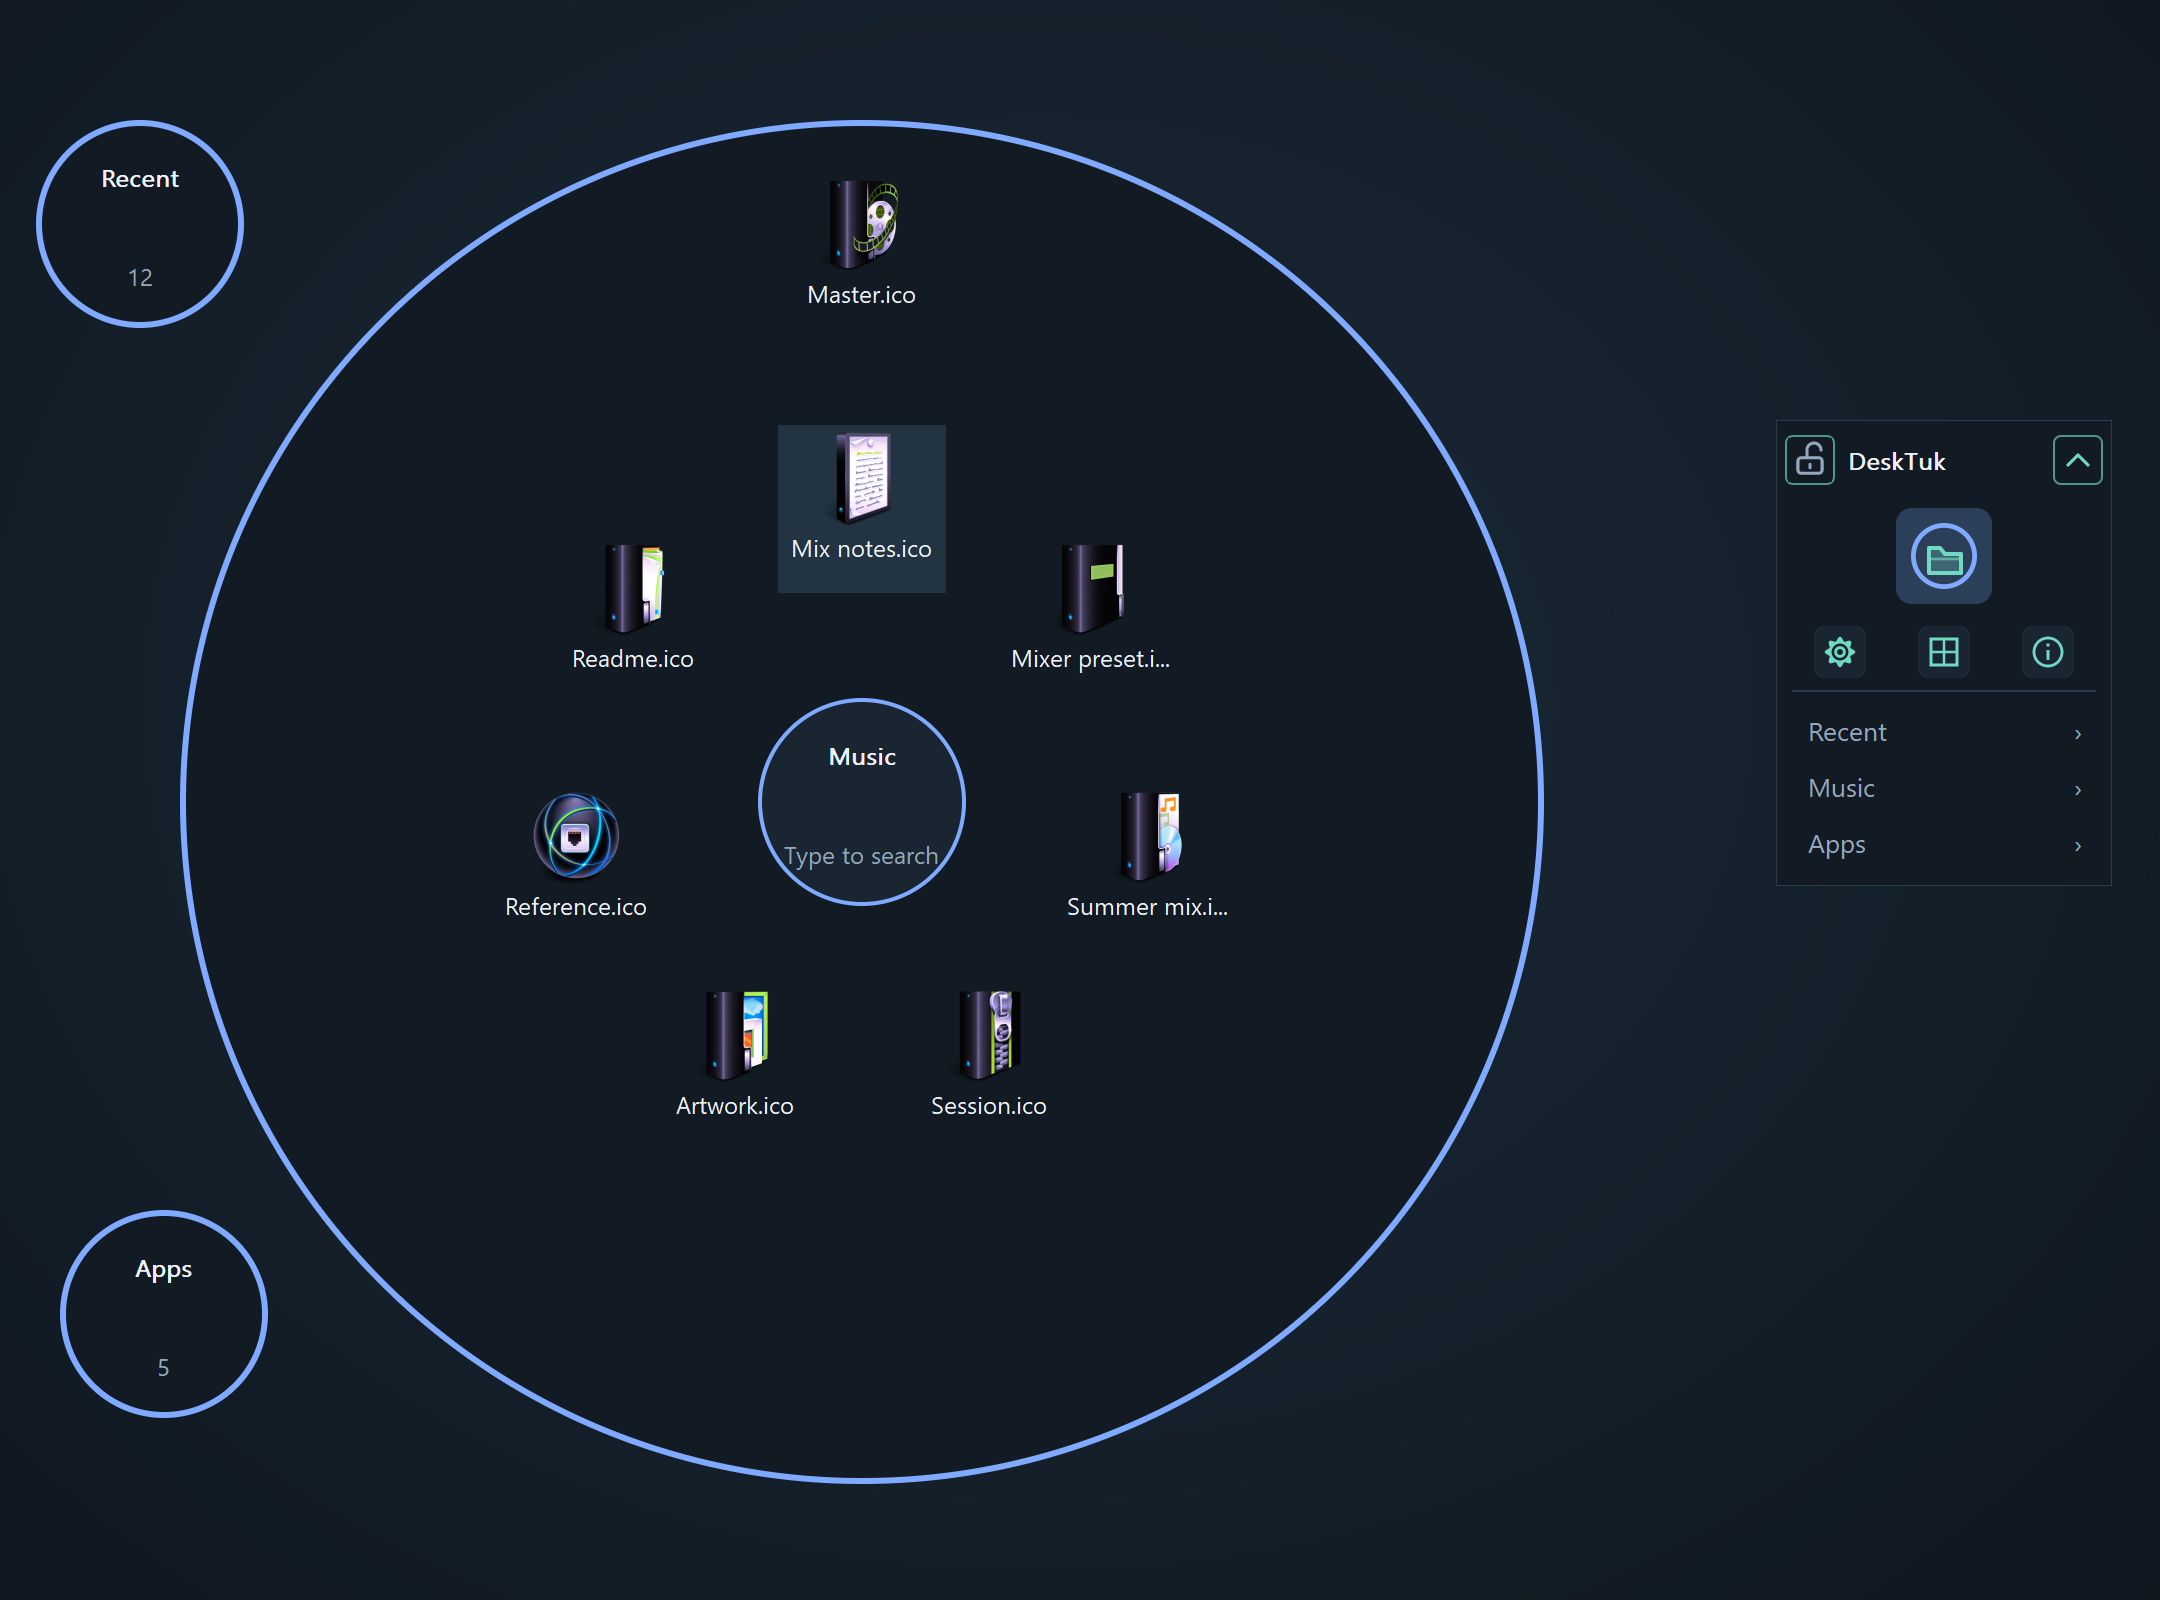
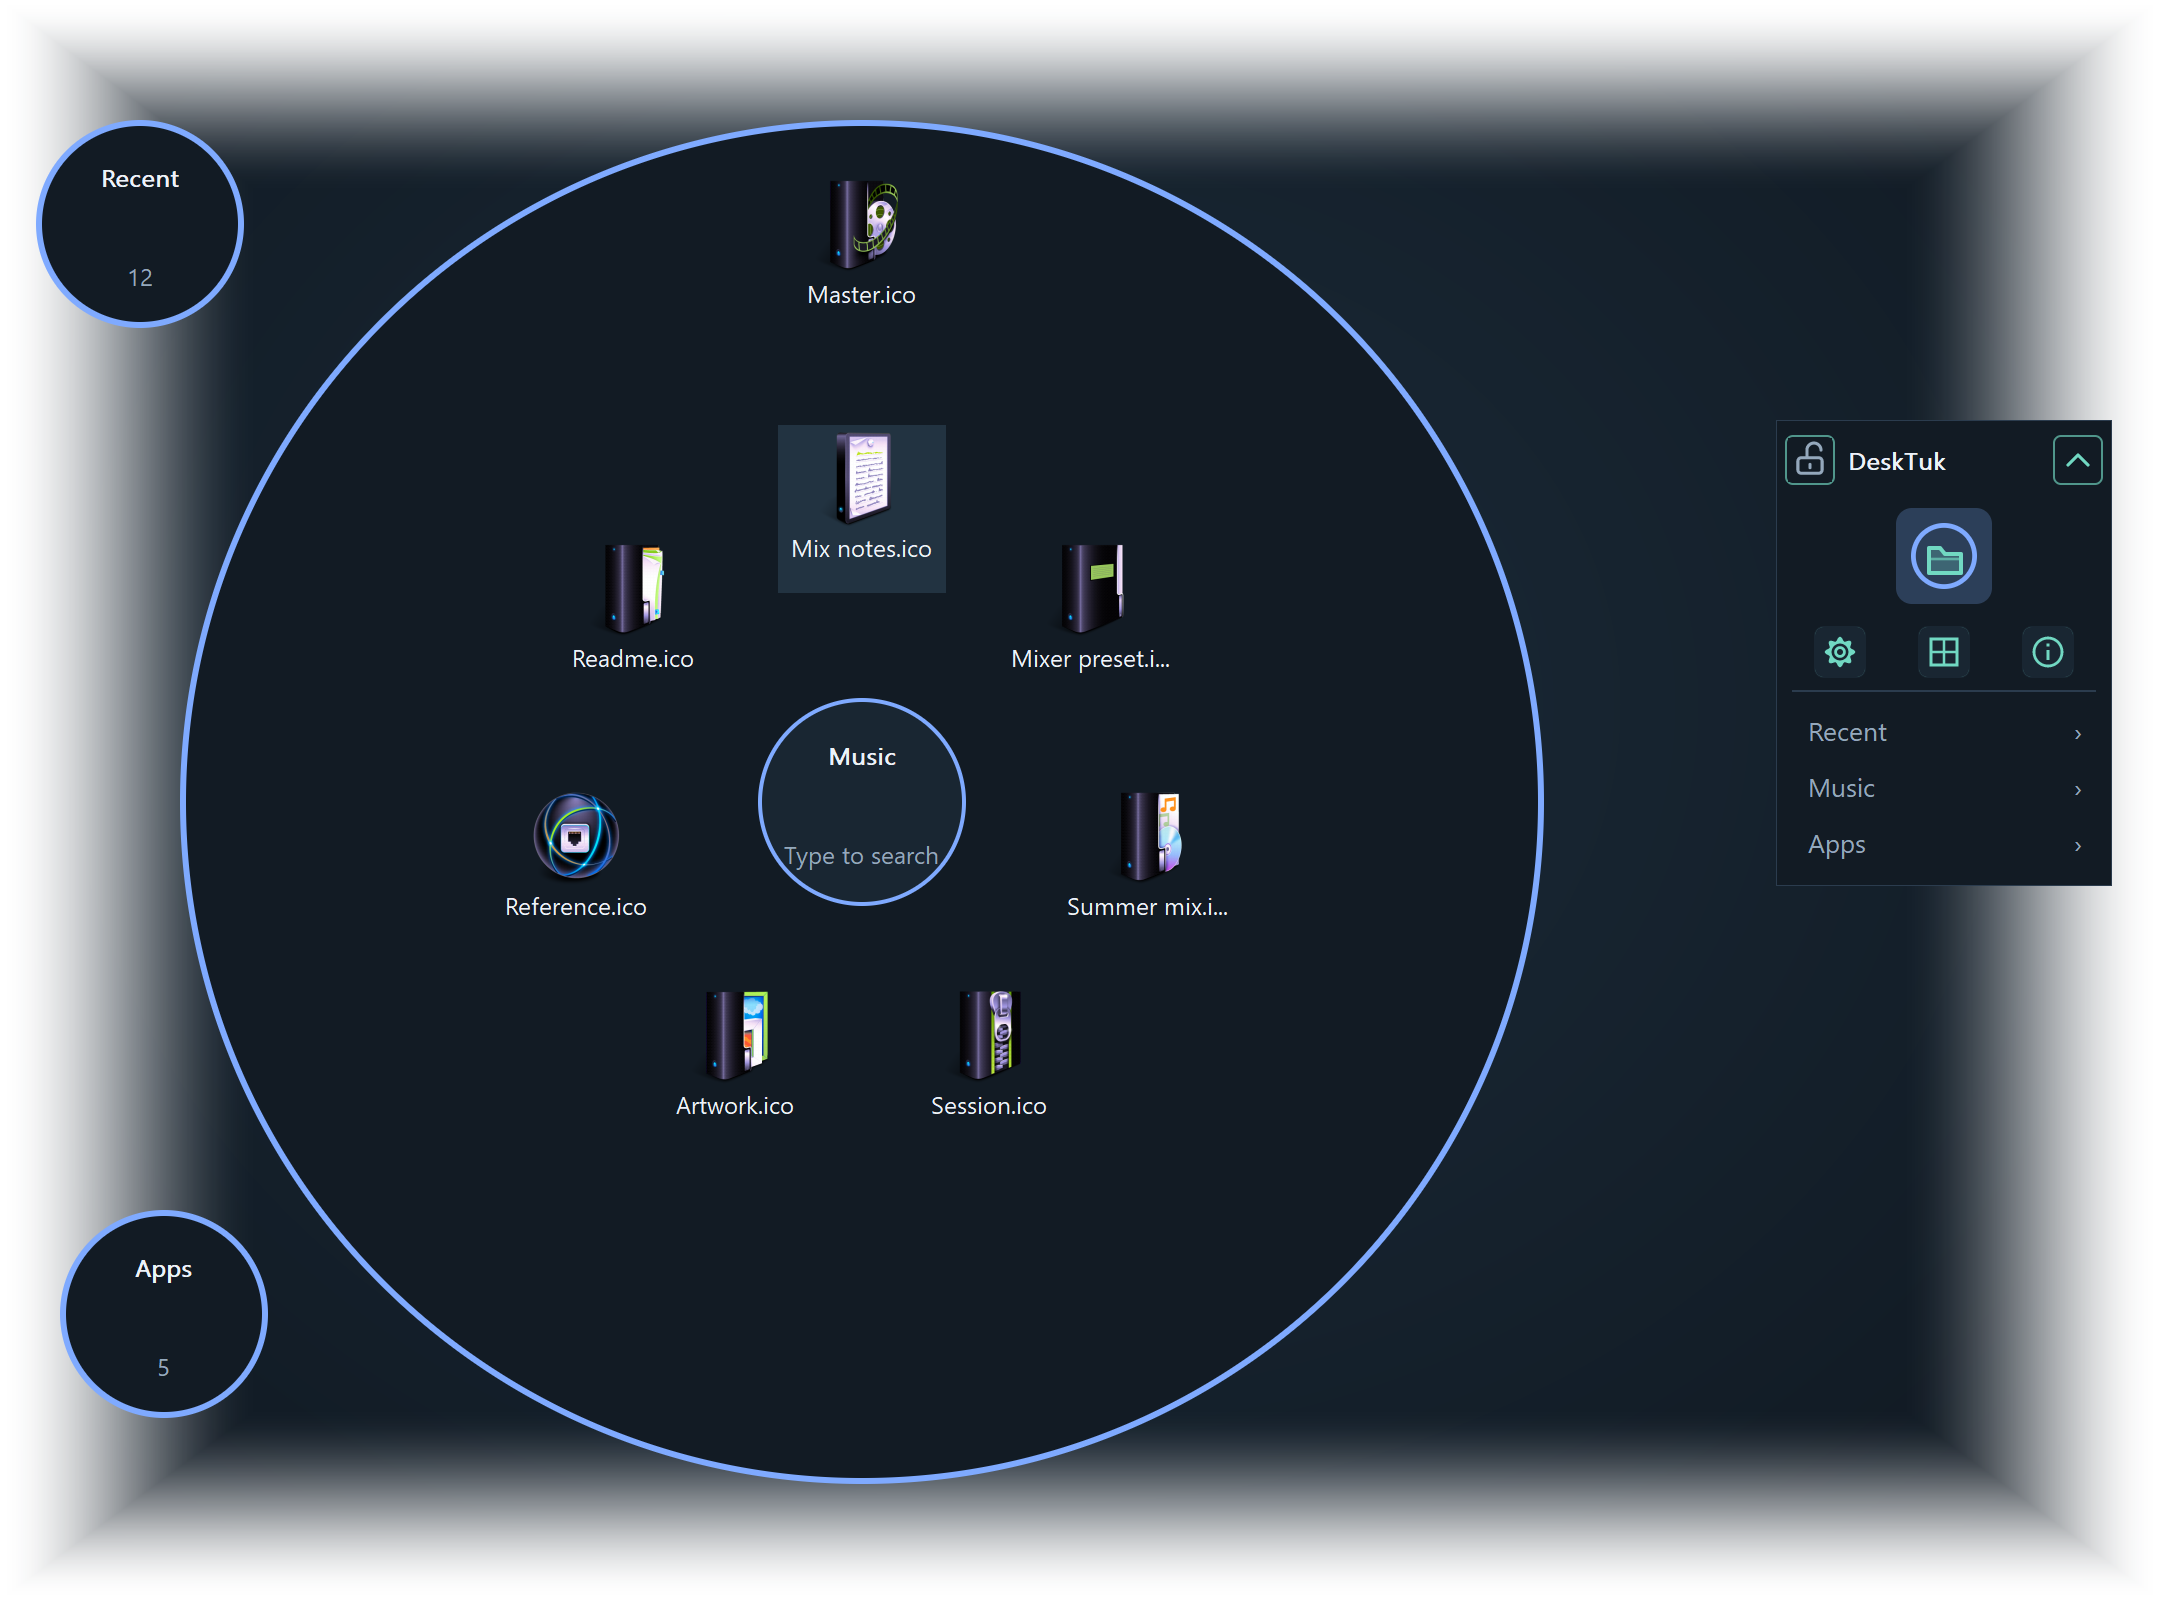
Fade README backdrops into the viewer [skip ci]
Blend presentation gradients into either README theme with transparent edges while preserving opaque native UI. Regenerate both documentation images; app tests remain deferred for manual assessment.

Plan: docs/superpowers/plans/2026-10-13-phase2-d-circles.md Task D60

diff --git a/docs/media/native_export.rs b/docs/media/native_export.rs
@@ -118,8 +118,17 @@ fn composite(canvas: &mut [u32], width: usize, height: usize, source: &mut Surfa
             }
             let dst = &mut canvas[(top + y) * width + left + x];
             let a = src >> 24;
-            let channel = |shift: u32| (((src >> shift) & 255) + ((*dst >> shift) & 255) * (255 - a) / 255).min(255) << shift;
-            *dst = 0xff000000 | channel(16) | channel(8) | channel(0);
+            let da = (*dst >> 24) * (255 - a) / 255;
+            let out_a = a + da;
+            // Native surfaces are premultiplied; the PNG canvas uses straight alpha.
+            let channel = |shift: u32| {
+                if out_a == 0 {
+                    0
+                } else {
+                    ((((src >> shift) & 255) * 255 + ((*dst >> shift) & 255) * da) / out_a).min(255) << shift
+                }
+            };
+            *dst = out_a << 24 | channel(16) | channel(8) | channel(0);
         }
     }
 }
@@ -154,8 +163,11 @@ fn backdrop(w: usize, h: usize) -> Vec<u32> {
             let dx = (x as f32 / w as f32 - 0.48) / 0.9;
             let dy = (y as f32 / h as f32 - 0.44) / 1.0;
             let amount = (1.0 - (dx * dx + dy * dy).sqrt()).clamp(0.0, 1.0);
+            // Smoothly disappear into any README theme at every canvas edge.
+            let edge = (x.min(w - 1 - x) as f32 / (w as f32 * 0.12)).min(y.min(h - 1 - y) as f32 / (h as f32 * 0.12)).clamp(0.0, 1.0);
+            let alpha = (255.0 * edge * edge * (3.0 - 2.0 * edge)).round() as u32;
             let channel = |a: f32, b: f32| (a + (b - a) * amount).round() as u32;
-            pixels.push(0xff000000 | channel(12.0, 27.0) << 16 | channel(18.0, 43.0) << 8 | channel(25.0, 57.0));
+            pixels.push(alpha << 24 | channel(12.0, 27.0) << 16 | channel(18.0, 43.0) << 8 | channel(25.0, 57.0));
         }
     }
     pixels

diff --git a/docs/superpowers/plans/2026-10-13-phase2-d-circles.md b/docs/superpowers/plans/2026-10-13-phase2-d-circles.md
@@ -1768,3 +1768,19 @@ cargo fmt, standard release Clippy, release build, local README/credit links and
 git diff --check pass. Only the ignored native media exporter ran (78 other tests
 filtered out); no application input/regression tests, installed restart or new
 installer. Assets are under docs/media/ only and never loaded by shipping code.
+
+### D60: Fade README presentation backdrops into the viewer
+
+Owner requests the earlier edge-fading background rather than a rectangular
+opaque gradient.
+
+- [x] Smoothly fade the slate/blue backdrop to transparent at all four edges.
+- [x] Preserve native UI opacity and colors using source-over alpha composition;
+  export straight-alpha PNGs that blend with light or dark README viewers.
+- [x] Regenerate and inspect both native README images; document the fade.
+- [x] Run fmt, standard release Clippy, media export and diff checks; commit/push.
+
+Only the documentation exporter ran (78 other tests filtered out), respecting
+manual-first app testing. Both PNGs have edge alpha 0 and centre alpha 255.
+Native UI remains opaque; installed app and installer were not changed. No new
+runtime dependencies, app behavior changes or application regression tests.

diff --git a/docs/media/README.md b/docs/media/README.md
@@ -11,7 +11,9 @@ offscreen client export. The square client outline is retained rather than inven
 a different rounded window. Fonts depend on the exporting Windows installation and text settings. The native
 ICO loader supplies the licensed example icons at the actual display size.
 
-The presentation background uses the earlier subtle slate/blue radial gradient.
+The presentation background uses the earlier subtle slate/blue radial gradient,
+with a smooth alpha fade to full transparency at all four edges so it blends into
+the README viewer's background in either theme.
 It sits behind the native UI and does not change native surface colors or corners.
 Icon credit: 3D BlueFX Desktop by [WallpaperFX](https://wallpaperfx.com/),
 [CC BY 4.0](https://creativecommons.org/licenses/by/4.0/). See [asset provenance](icons/README.md).

diff --git a/docs/superpowers/plans/CONTEXT.md b/docs/superpowers/plans/CONTEXT.md
@@ -4,7 +4,7 @@ Keep this guide under 100 lines. Live Git/CI outrank snapshots.
 - Inspect `git status --short --branch` and `git worktree list`.
 - Main is the integration baseline; owner permits direct main commits/pushes.
   Do not open/reopen PRs unless requested. Preserve task-by-task commits/checks.
-- A and D through D59 implemented; README has native renders, licensed ICOs and TR/EN.
+- A and D through D60 implemented; README native renders fade into the viewer at edges.
   D56 scoped D55 review found no blocker; final automated/install checks pending.
 - Owner requires circles and open rings always topmost, including Show Desktop.
 ## Delivered behavior and latest changes
